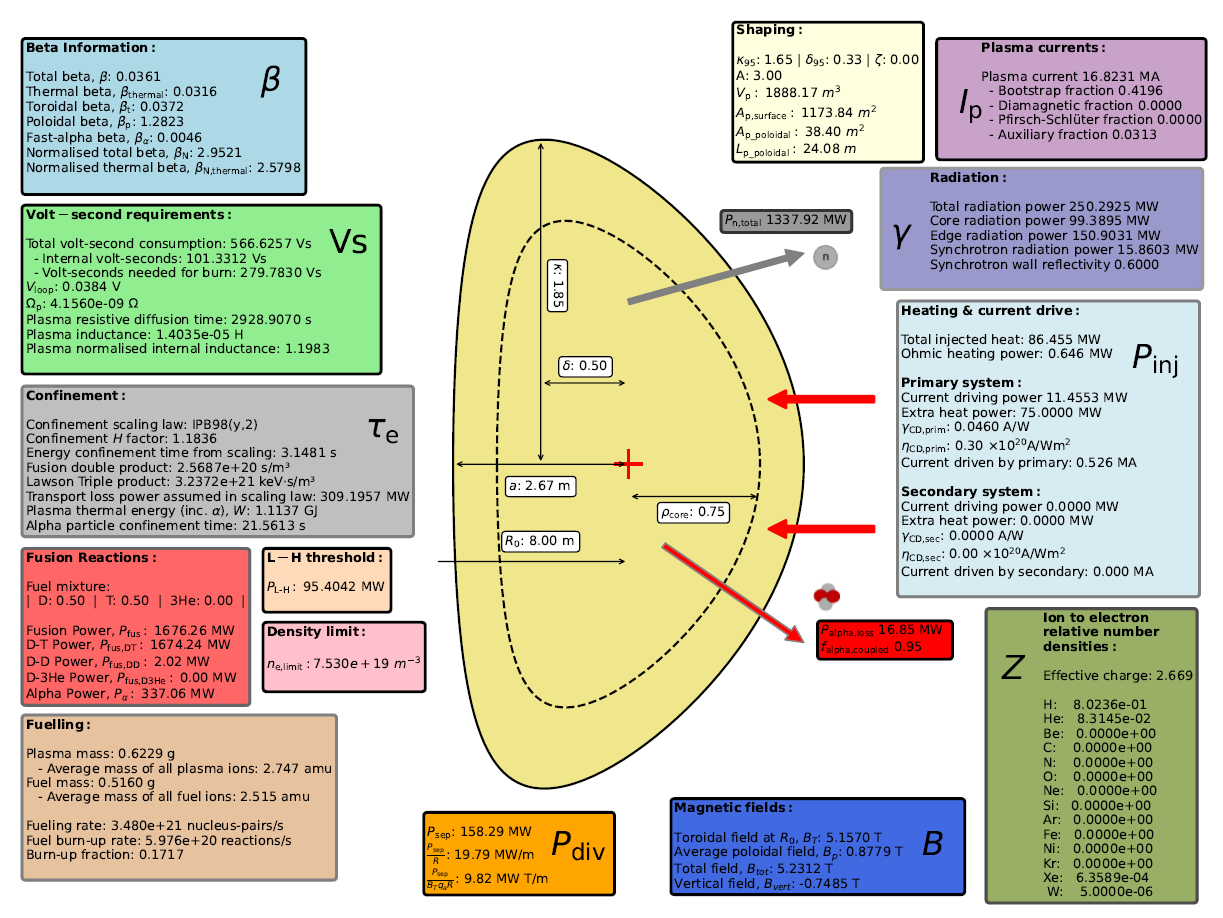
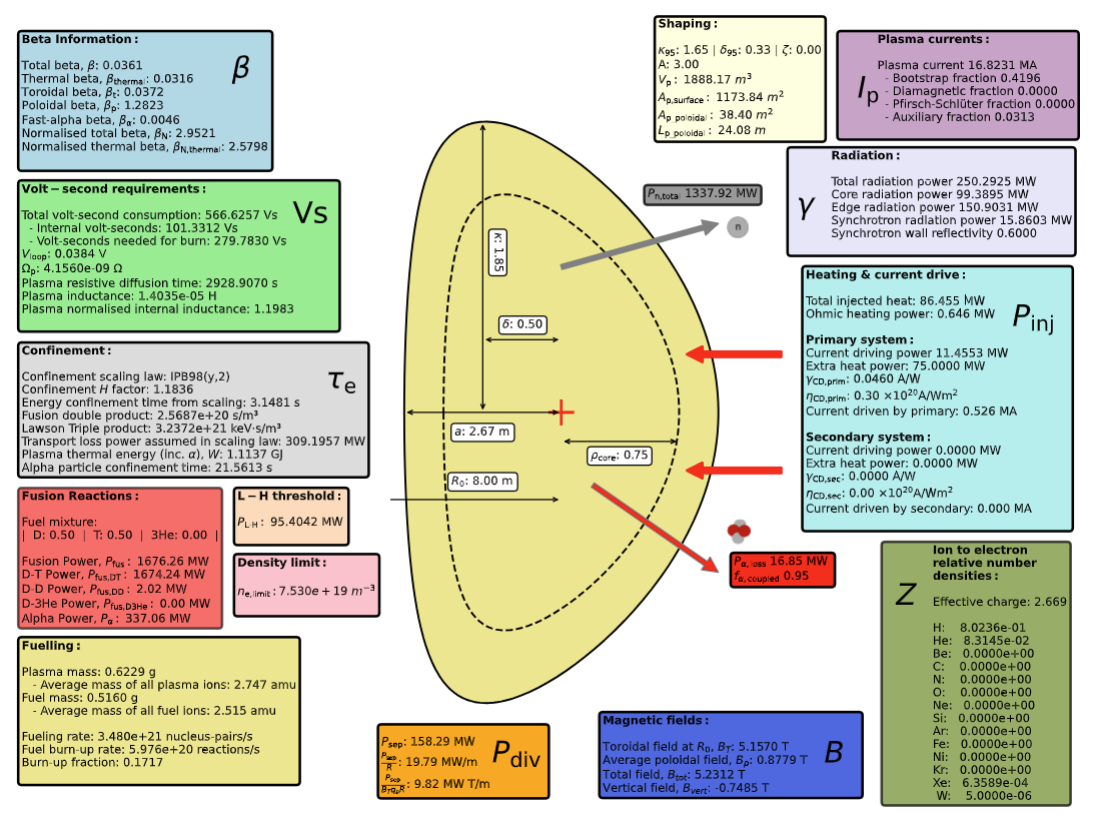
🔄 Update plasma information plotting with enhanced box styles and colors for improved visibility and clarity

diff --git a/process/io/plot_proc.py b/process/io/plot_proc.py
@@ -590,9 +590,10 @@ def plot_main_plasma_information(
         transform=plt.gcf().transFigure,
         bbox={
             "boxstyle": "round",
-            "facecolor": "lightblue",
-            "alpha": 0.5,
+            "facecolor": "paleturquoise",
+            "alpha": 1.0,
             "linewidth": 2,
+            "edgecolor": "black",  # Set box outline to black
         },
     )
 
@@ -743,9 +744,10 @@ def plot_main_plasma_information(
         transform=fig.transFigure,
         bbox={
             "boxstyle": "round",
-            "facecolor": "grey",  # Changed to a not normal color (Aquamarine)
-            "alpha": 0.5,
+            "facecolor": "gainsboro",  # Changed to a not normal color (Aquamarine)
+            "alpha": 1.0,
             "linewidth": 2,
+            "edgecolor": "black",  # Set box outline to black
         },
     )
 
@@ -784,8 +786,8 @@ def plot_main_plasma_information(
     )
 
     textstr_alpha = (
-        f"$P_{{\\text{{\\alpha,loss}}}}$ {mfile_data.data['p_fw_alpha_mw'].get_scan(scan):.2f} MW \n"
-        f"$f_{{\\text{{\\alpha,coupled}}}}$ {mfile_data.data['f_alpha_plasma'].get_scan(scan):.2f}"
+        f"$P_{{\\alpha,\\text{{loss}}}}$ {mfile_data.data['p_fw_alpha_mw'].get_scan(scan):.2f} MW \n"
+        f"$f_{{\\alpha,\\text{{coupled}}}}$ {mfile_data.data['f_alpha_plasma'].get_scan(scan):.2f}"
     )
 
     axis.text(
@@ -891,9 +893,10 @@ def plot_main_plasma_information(
         transform=fig.transFigure,
         bbox={
             "boxstyle": "round",
-            "facecolor": "peru",
-            "alpha": 0.5,
+            "facecolor": "khaki",
+            "alpha": 1.0,
             "linewidth": 2,
+            "edgecolor": "black",  # Set box outline to black
         },
     )
 
@@ -1040,9 +1043,10 @@ def plot_main_plasma_information(
         transform=fig.transFigure,
         bbox={
             "boxstyle": "round",
-            "facecolor": "navy",
-            "alpha": 0.4,
+            "facecolor": "lavender",
+            "alpha": 1.0,
             "linewidth": 2,
+            "edgecolor": "black",  # Set box outline to black
         },
     )
 
